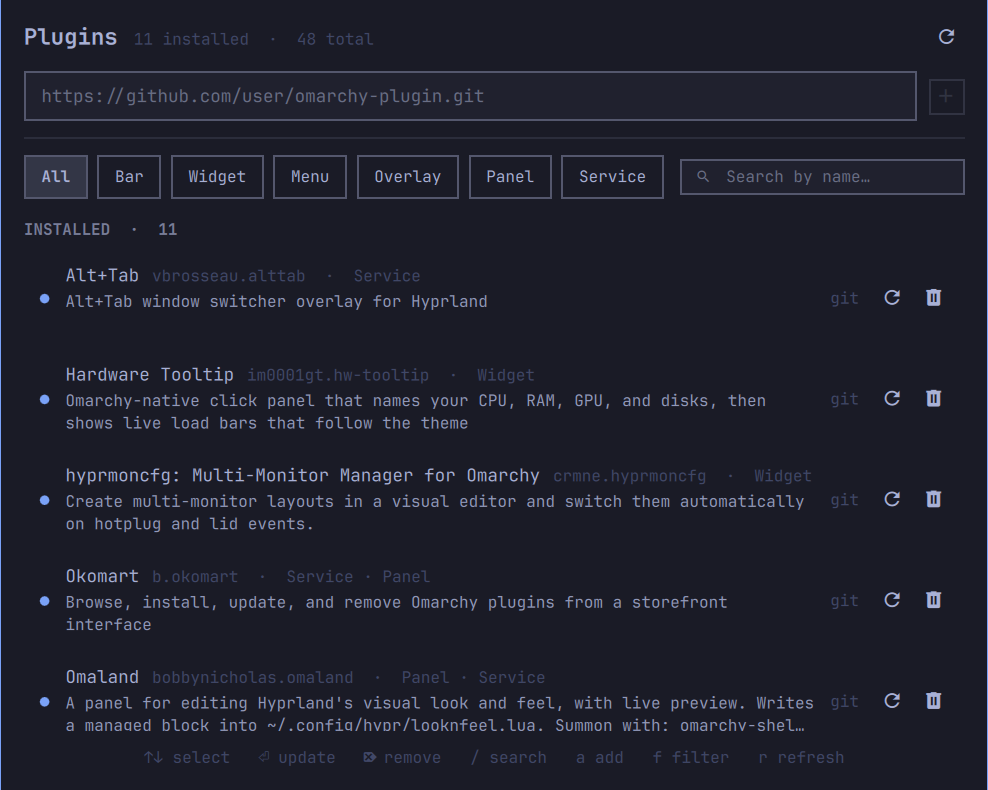
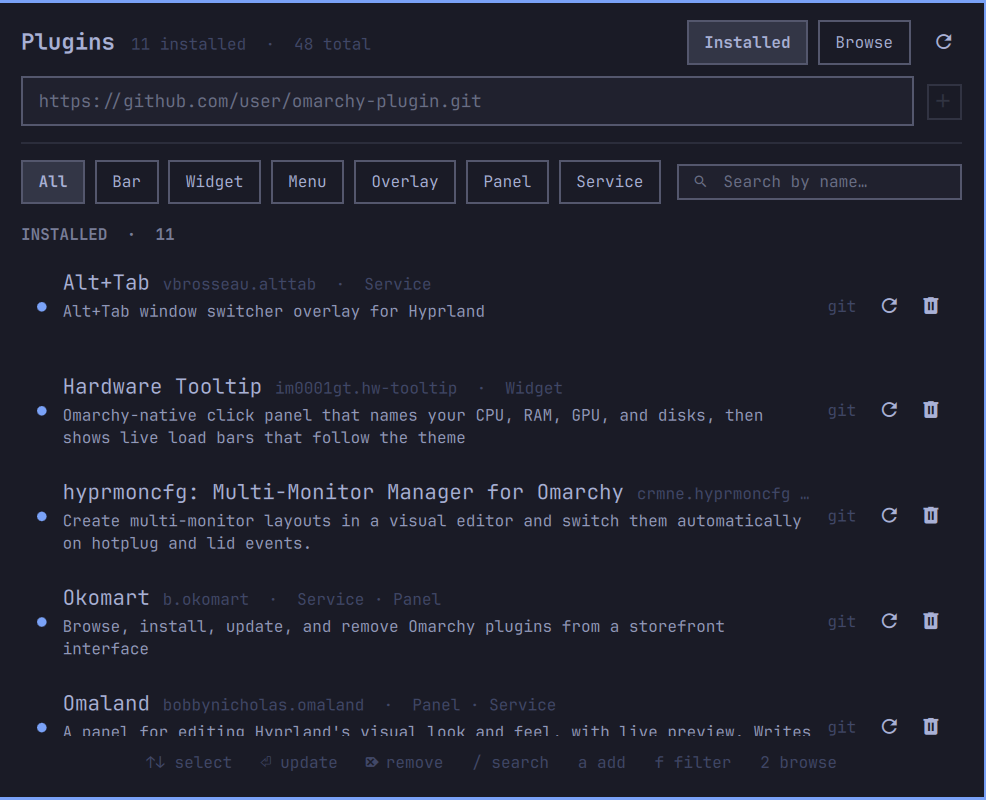
style: give installed row titles their own size
The plugin name sat at the same size as the description below it and the
metadata beside it, so a row read as three equal lines with no entry point.
One step up to subtitle makes the name the row's heading.

Row height is derived from the content column, so nothing else needed moving.

diff --git a/PluginRow.qml b/PluginRow.qml
@@ -85,7 +85,9 @@ Rectangle {
         text: root.row ? root.row.name : ""
         color: root.foreground
         font.family: root.fontFamily
-        font.pixelSize: Style.font.bodySmall
+        // A step above the metadata beside it and the blurb below, so the
+        // name reads as the row's heading rather than one more line of text.
+        font.pixelSize: Style.font.subtitle
         elide: Text.ElideRight
         width: Math.min(implicitWidth, parent.width)
       }
